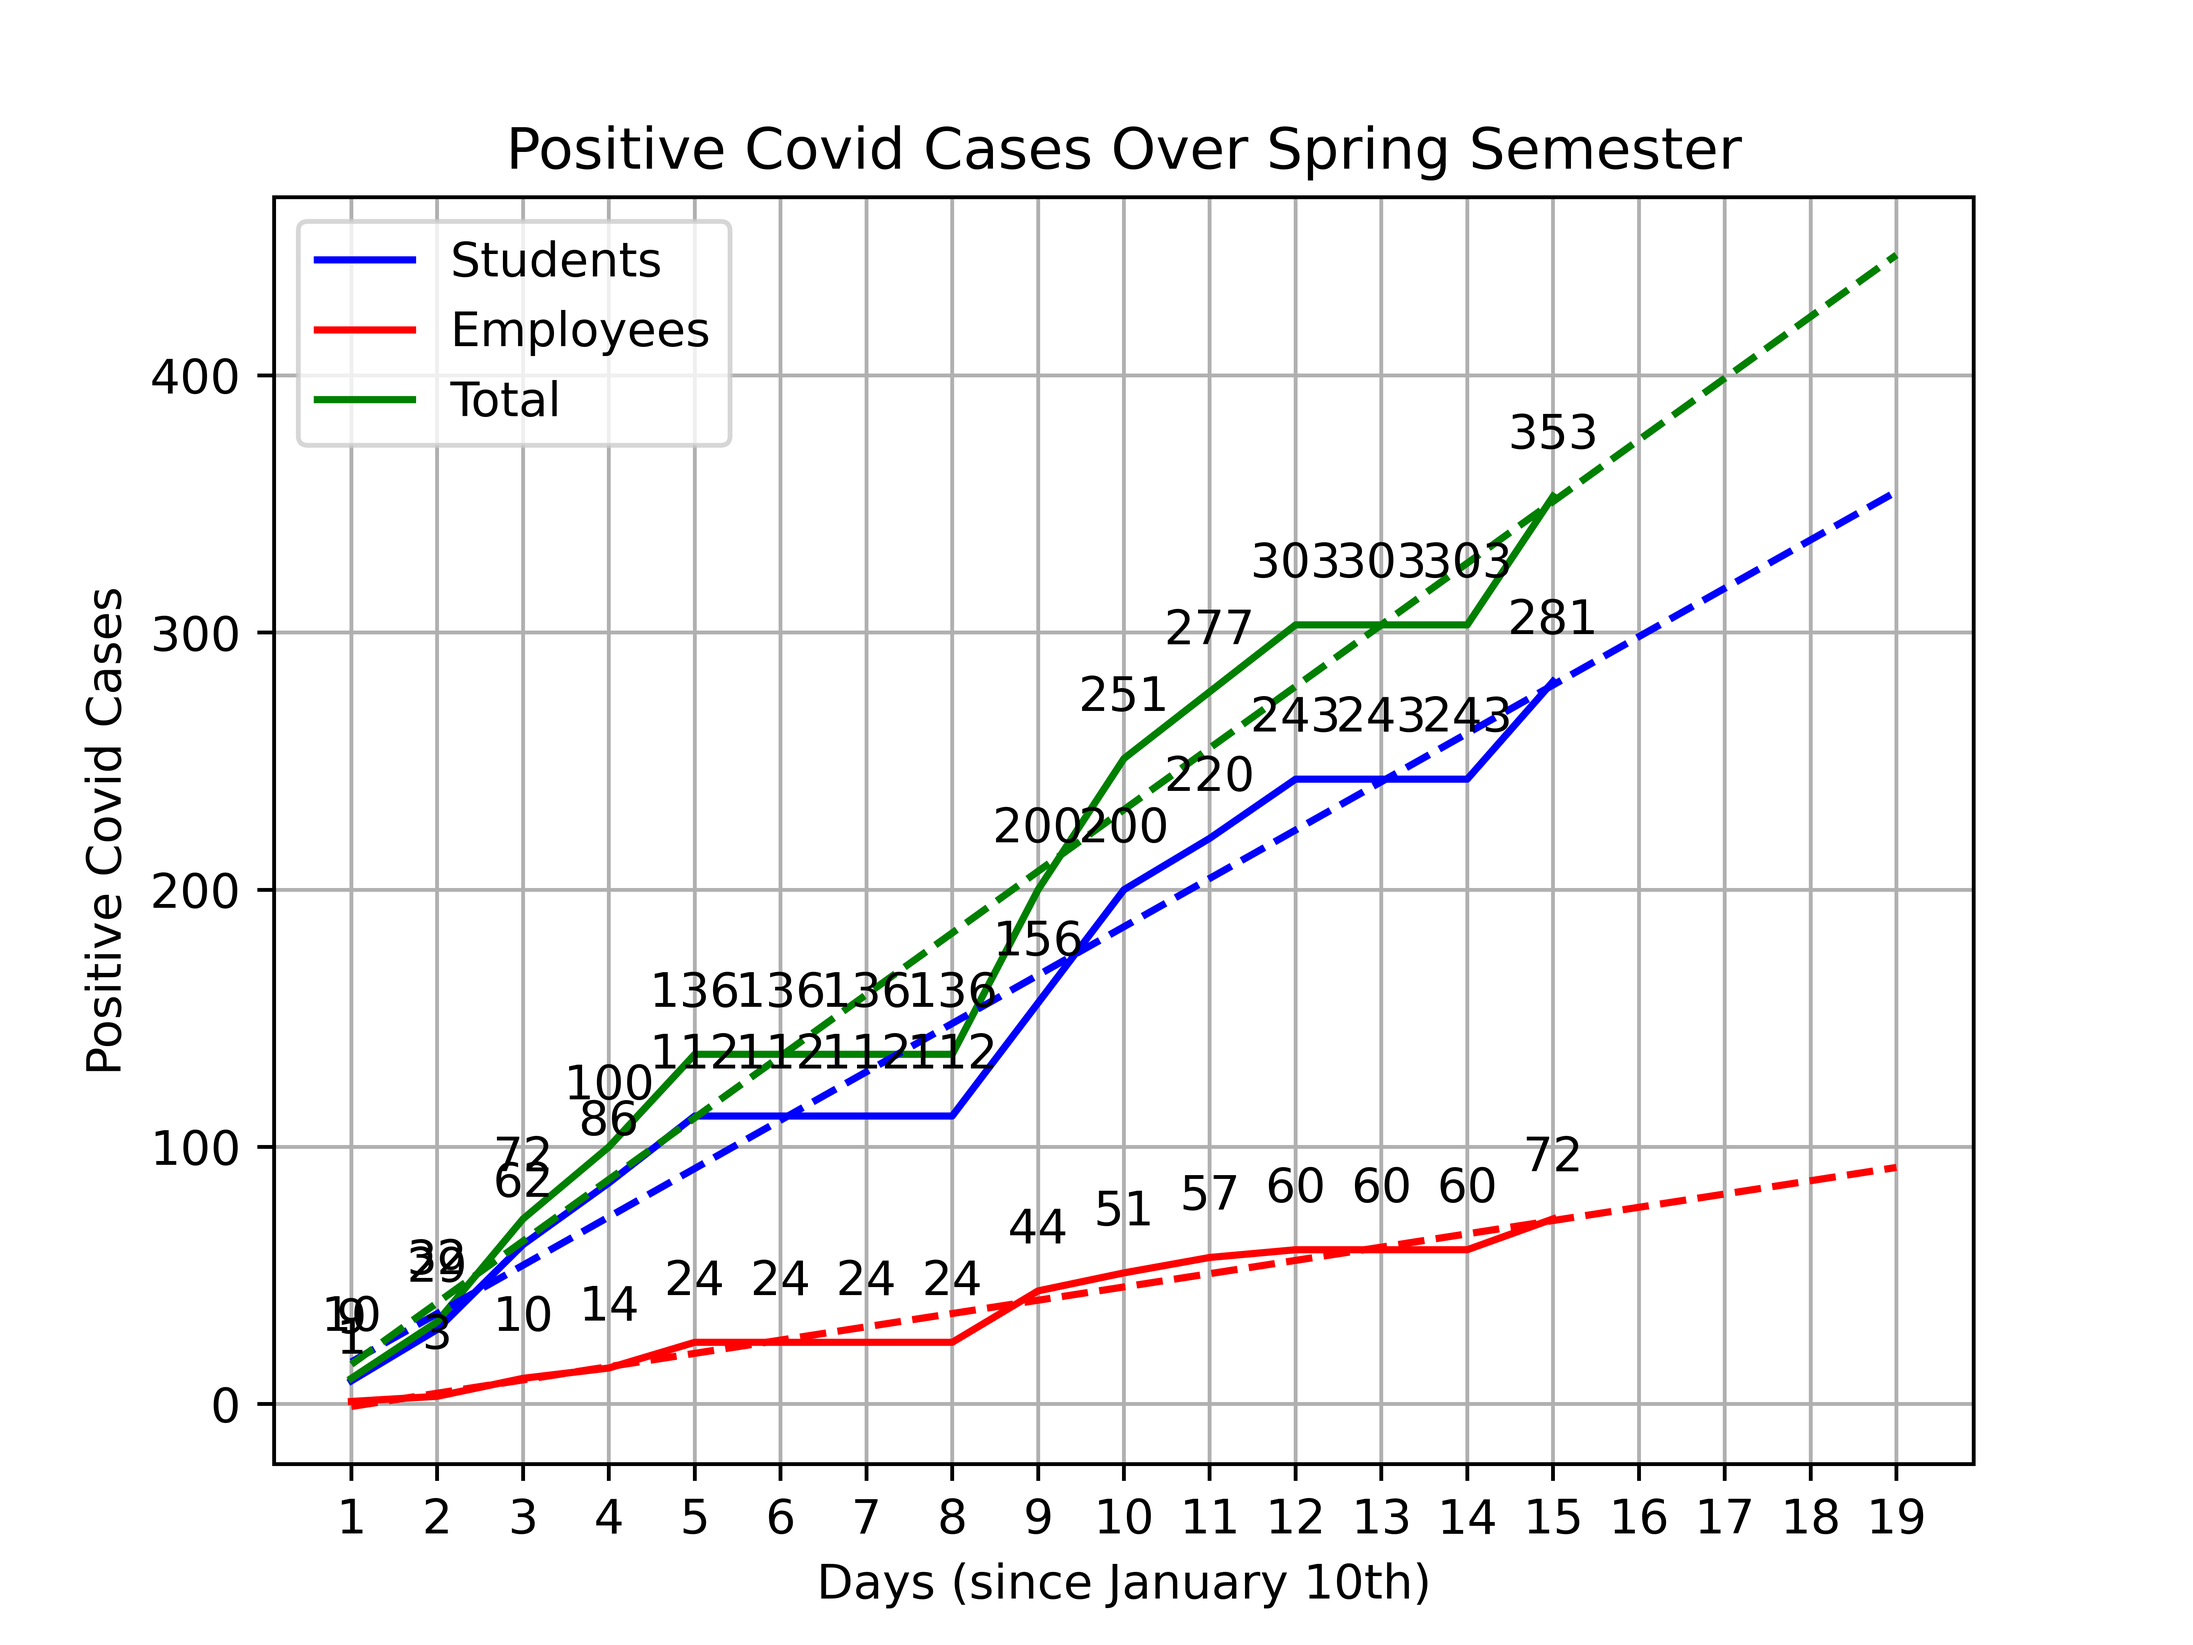
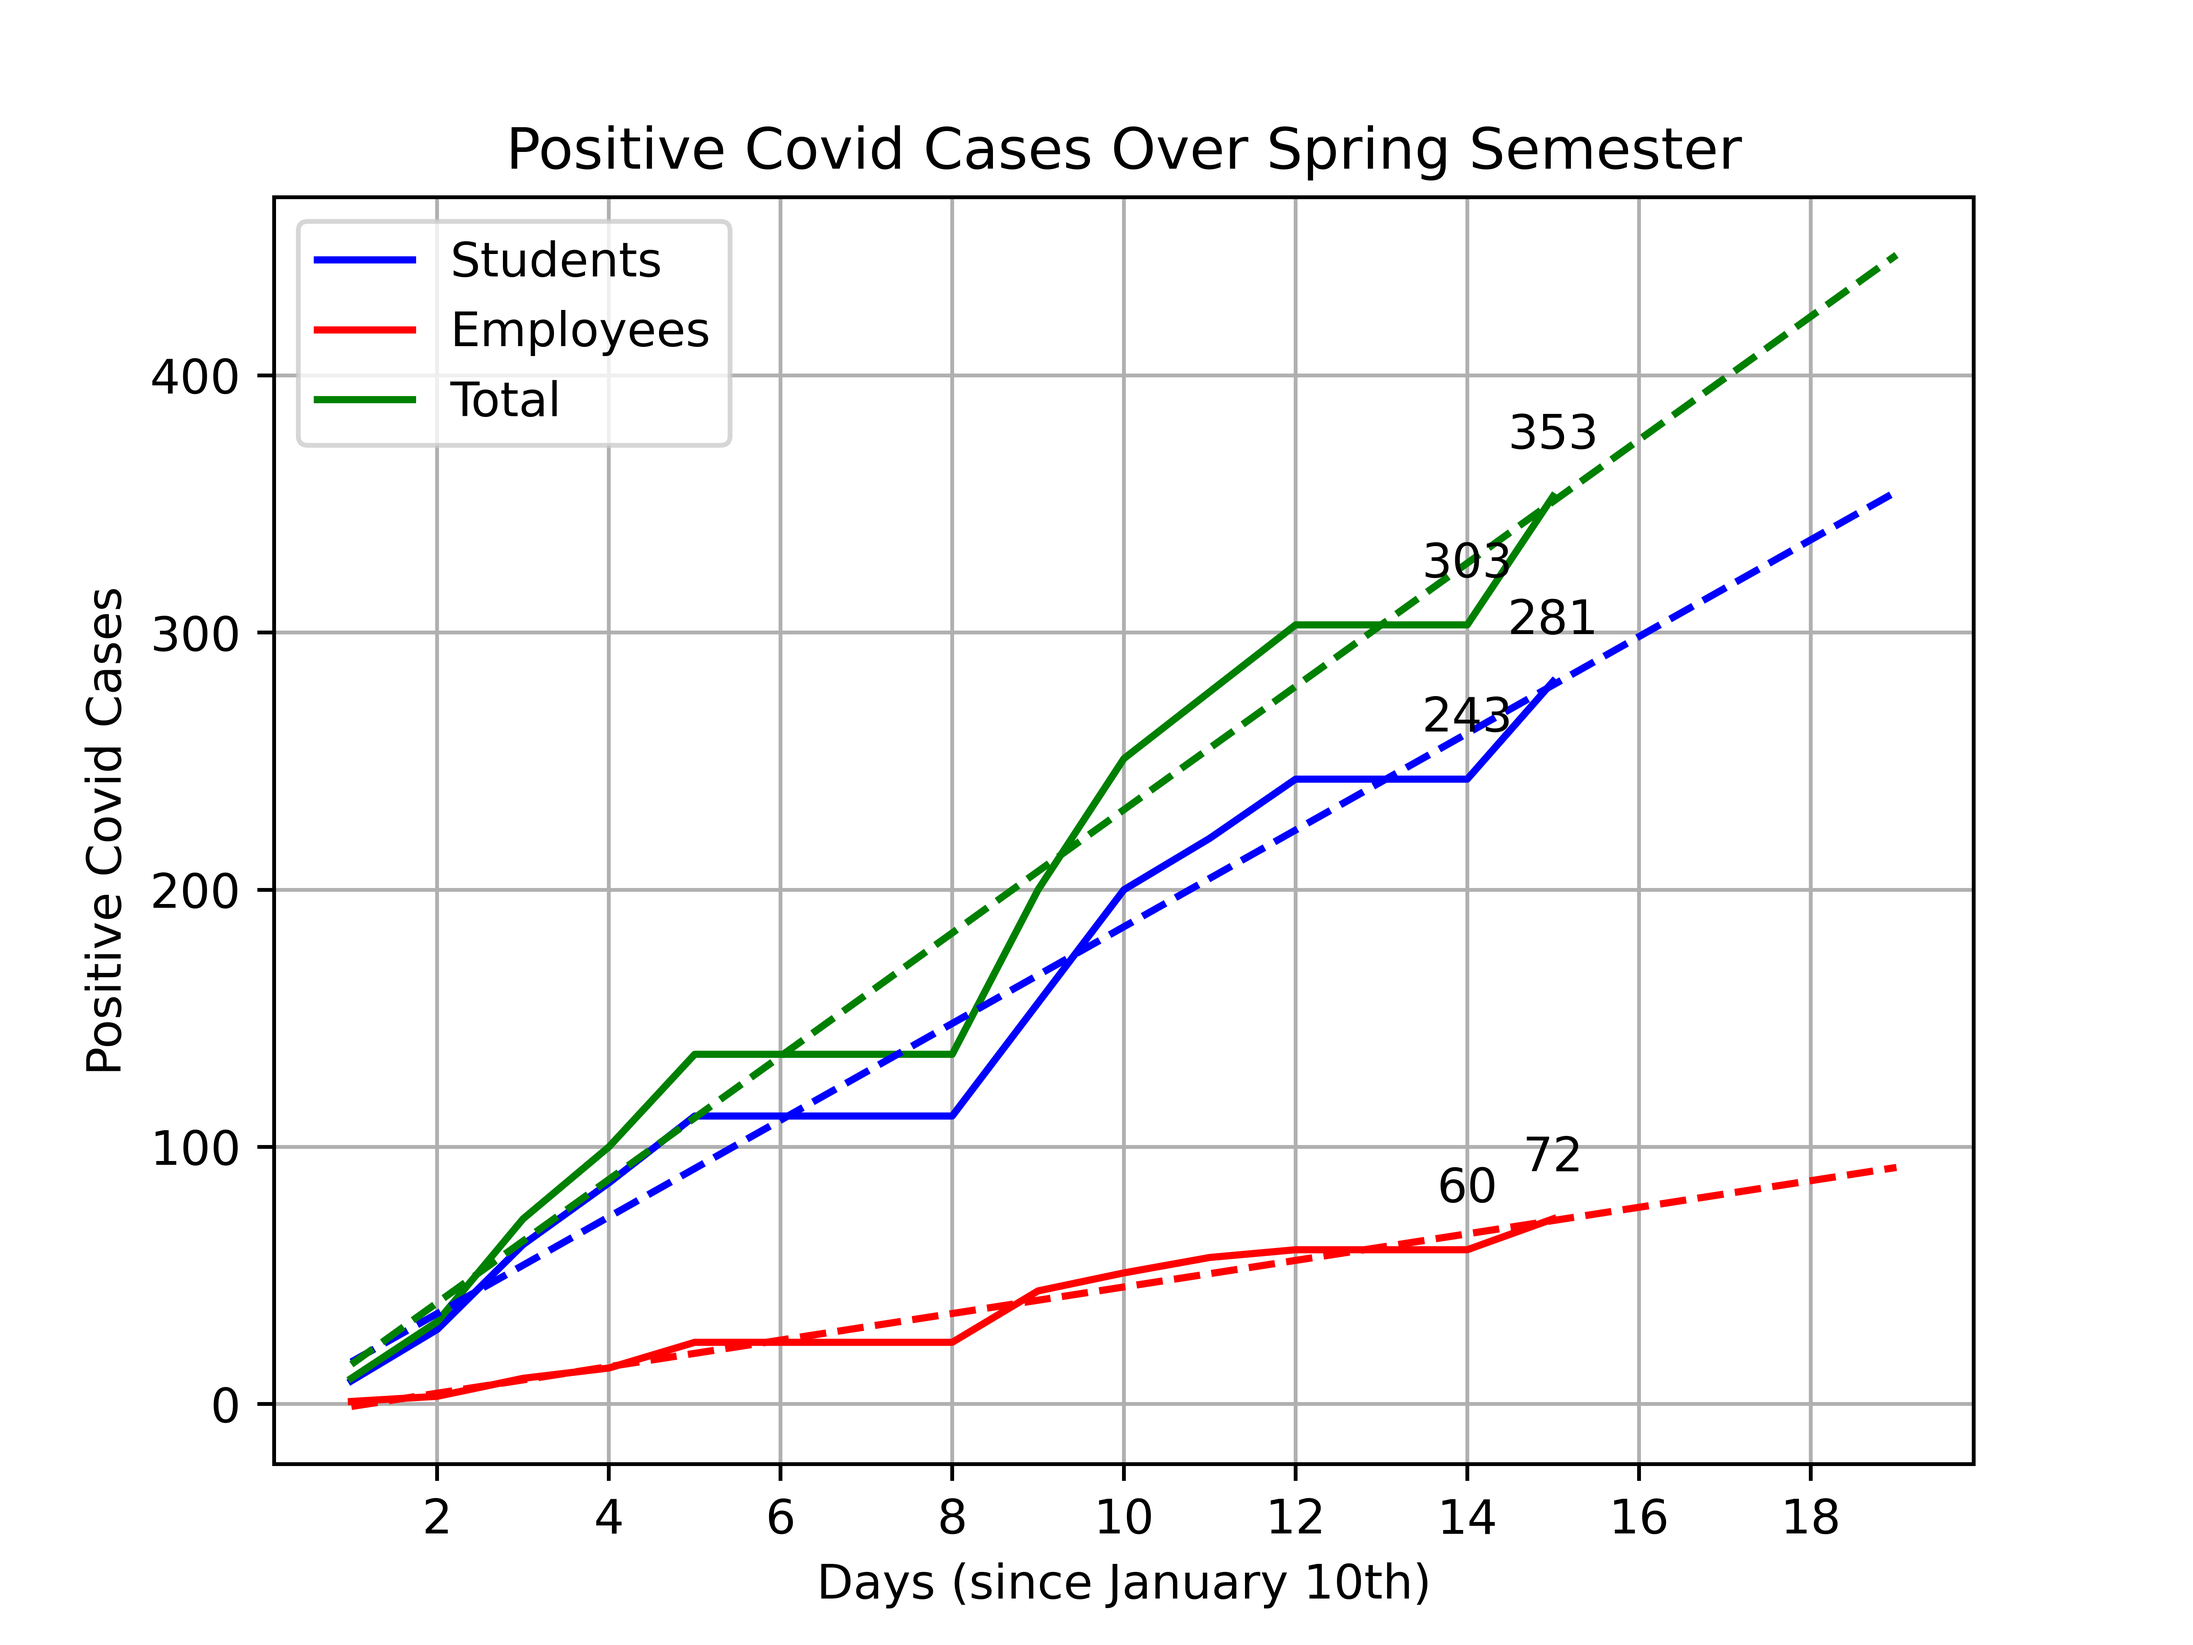
Made data not be clustered when there is significantly more data

diff --git a/src/application.py b/src/application.py
@@ -19,7 +19,6 @@ __version__ = "2.0.0"
 __copyright__ = "Copyright 2022"
 __status__ = "Production"
 
-
 # General Variable for the Program
 URL = 'https://www.rit.edu/ready/spring-2022-dashboard'
 PATH = 'website_screenshots'
@@ -32,29 +31,41 @@ def create_graph():
 
     x_axis = range(1, df['Students'].size + 1)
 
-    plt.plot(x_axis, df['Students'], 'b', label='Students',)
+    plt.plot(x_axis, df['Students'], 'b', label='Students')
+    sizeStudents = df['Students'].size
+    i = 0
     for x, y in zip(x_axis, df['Students']):
-        plt.annotate(y,
-                     (x, y),
-                     textcoords="offset points",
-                     xytext=(0, 10),
-                     ha='center')
+        if i == sizeStudents - 1 or i == sizeStudents - 2:
+            plt.annotate(y,
+                         (x, y),
+                         textcoords="offset points",
+                         xytext=(0, 10),
+                         ha='center')
+        i += 1
 
     plt.plot(x_axis, df['Employees'], 'r', label='Employees')
+    sizeEmployees = df['Employees'].size
+    i = 0
     for x, y in zip(x_axis, df['Employees']):
-        plt.annotate(y,
-                     (x, y),
-                     textcoords="offset points",
-                     xytext=(0, 10),
-                     ha='center')
+        if i == sizeEmployees - 1 or i == sizeEmployees - 2:
+            plt.annotate(y,
+                         (x, y),
+                         textcoords="offset points",
+                         xytext=(0, 10),
+                         ha='center')
+        i += 1
 
     plt.plot(x_axis, df['Total'], 'g', label='Total')
+    sizeTotal = df['Total'].size
+    i = 0
     for x, y in zip(x_axis, df['Total']):
-        plt.annotate(y,
-                     (x, y),
-                     textcoords="offset points",
-                     xytext=(0, 10),
-                     ha='center')
+        if i == sizeTotal - 1 or i == sizeTotal - 2:
+            plt.annotate(y,
+                         (x, y),
+                         textcoords="offset points",
+                         xytext=(0, 10),
+                         ha='center')
+        i += 1
 
     future_x_axis = range(1, len(x_axis) + 5)
 
@@ -74,7 +85,7 @@ def create_graph():
     plt.xlabel('Days (since January 10th)')
     plt.ylabel('Positive Covid Cases')
     plt.grid(True)
-    plt.xticks(future_x_axis)
+    plt.xticks(numpy.arange(min(future_x_axis) + 1, max(future_x_axis) + 1, 2.0))
     plt.legend()
     plt.savefig(DATA_PATH + '\\' + 'covid_cases_graph.png', dpi=900)
 

diff --git a/src/sender.py b/src/sender.py
@@ -33,9 +33,9 @@ def main() -> None:
     new_photo.save(save_path)
 
     send_photo = open(save_path, 'rb')
-    bot.send_photo(control, send_photo)
+    bot.send_photo(send_group, send_photo)
 
-    bot.send_message(control, message)
+    bot.send_message(send_group, message)
 
 
 # only run this program if it is not being imported by another main module
